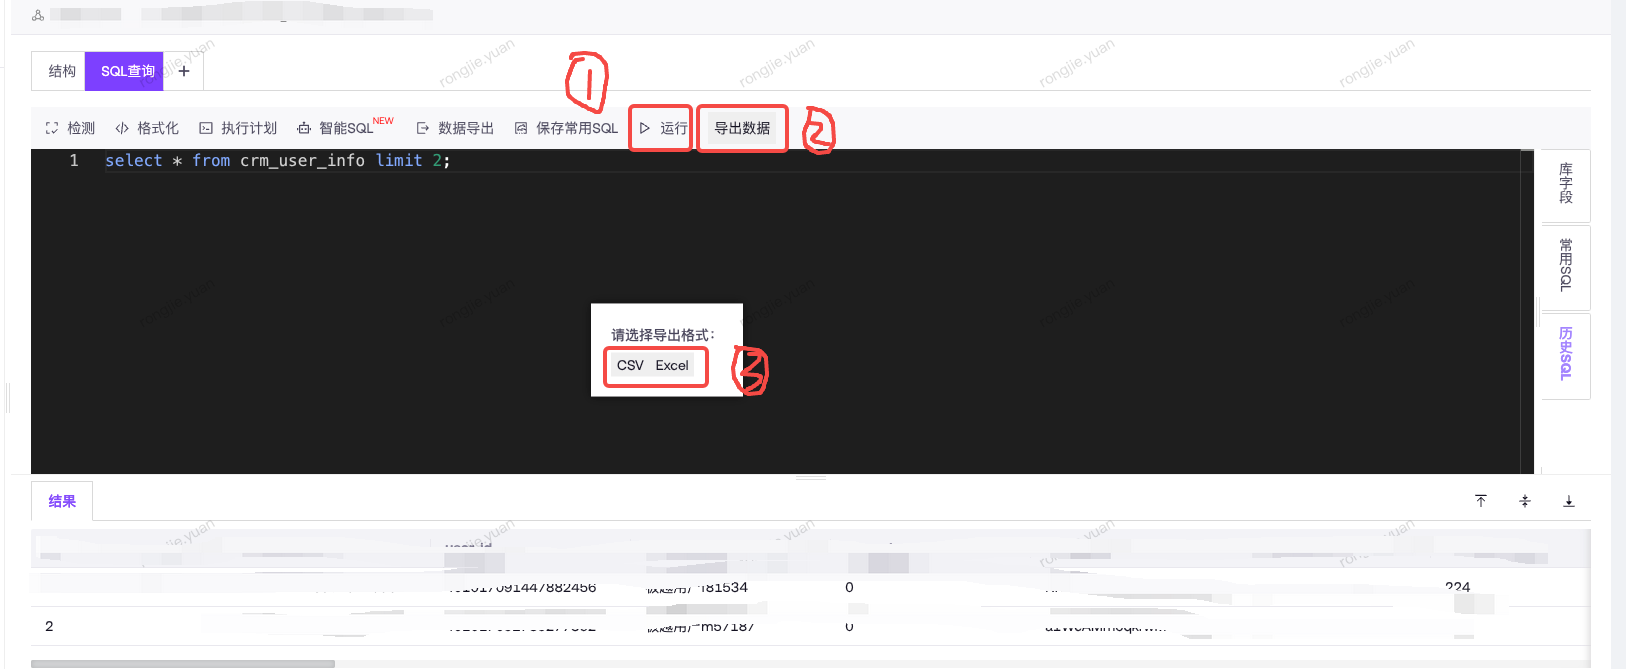
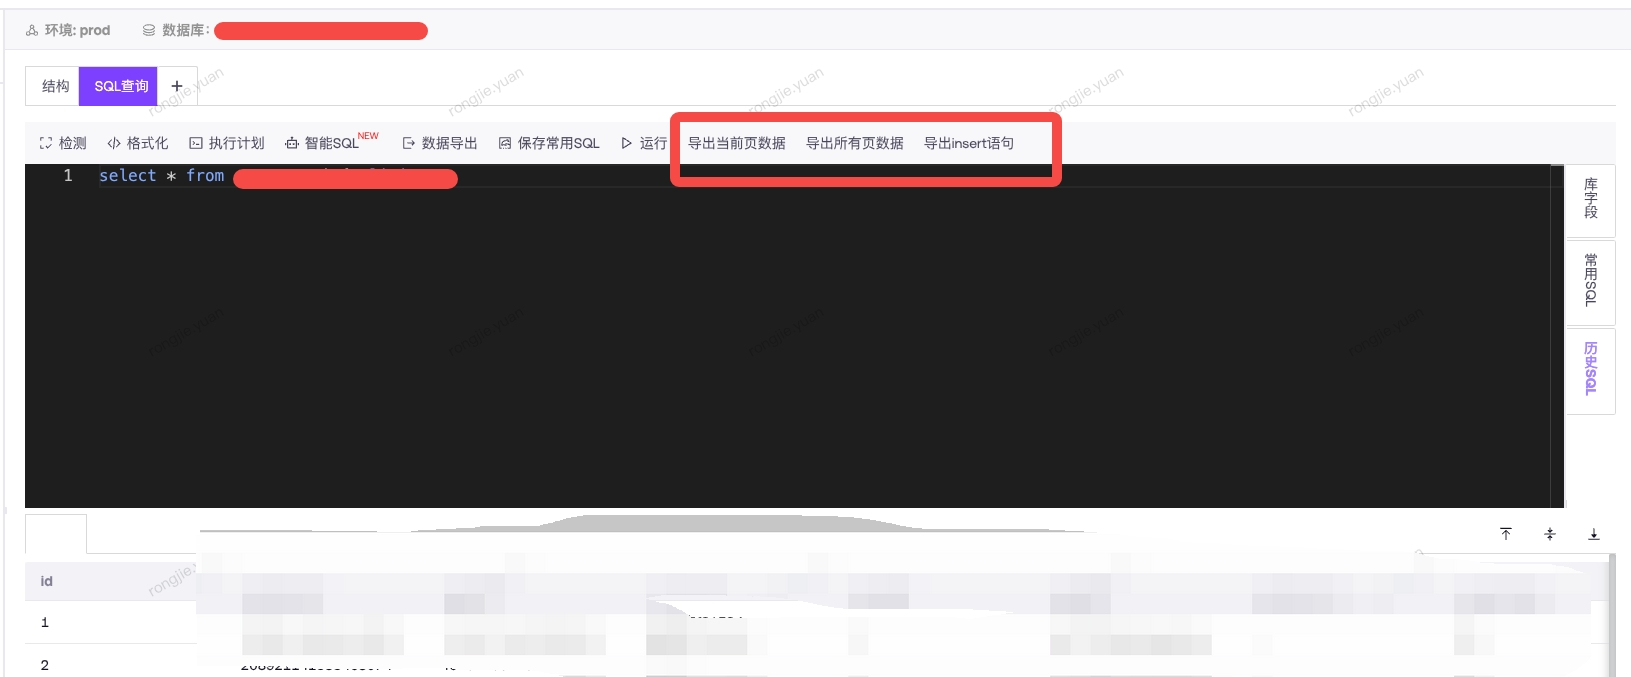
add mysql insert statement

diff --git a/JWS Data Exporter/JWS_Data_Exporter.js b/JWS Data Exporter/JWS_Data_Exporter.js
@@ -2,7 +2,7 @@
 // @name         JWS Data Exporter - Current and All Pages
 // @namespace    https://jidudev.com/rongjie-awesome/awesome-script/-/blob/master/JWS%20Data%20Exporter/JWS_Data_Exporter.js
 // @version      1.7
-// @description  导出当前页或所有页的查询结果为CSV或Excel文件
+// @description  导出当前页或所有页的查询结果为CSV或Excel文件，支持生成导出mysql的insert语句
 // @author       rongjie.Yuan
 // @match        https://jws.jiduprod.com/*
 // @downloadURL  https://jidudev.com/rongjie-awesome/awesome-script/-/blob/master/JWS%20Data%20Exporter/JWS_Data_Exporter.js
